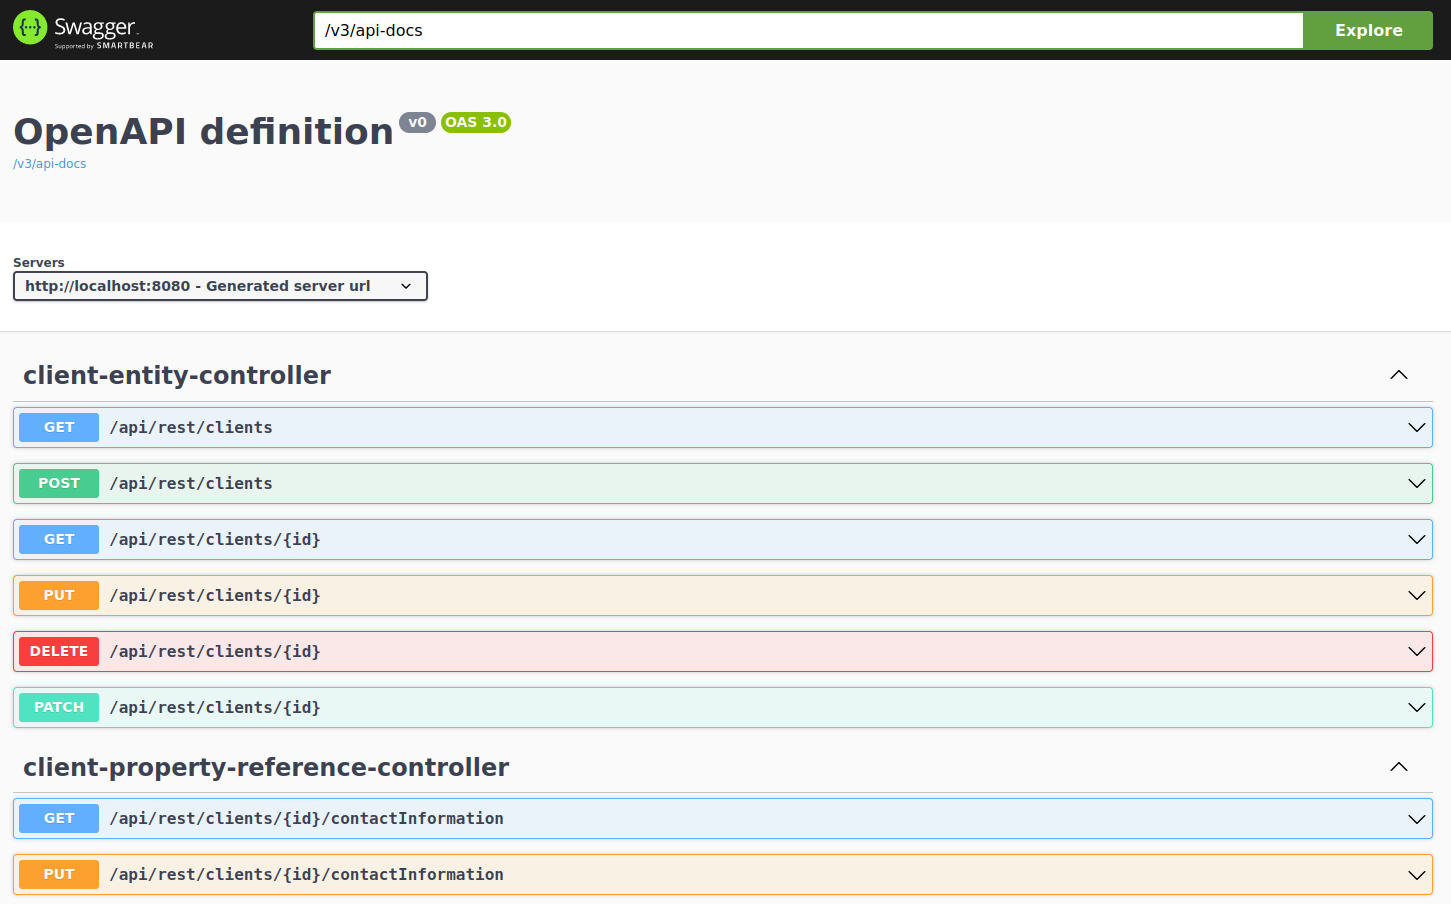
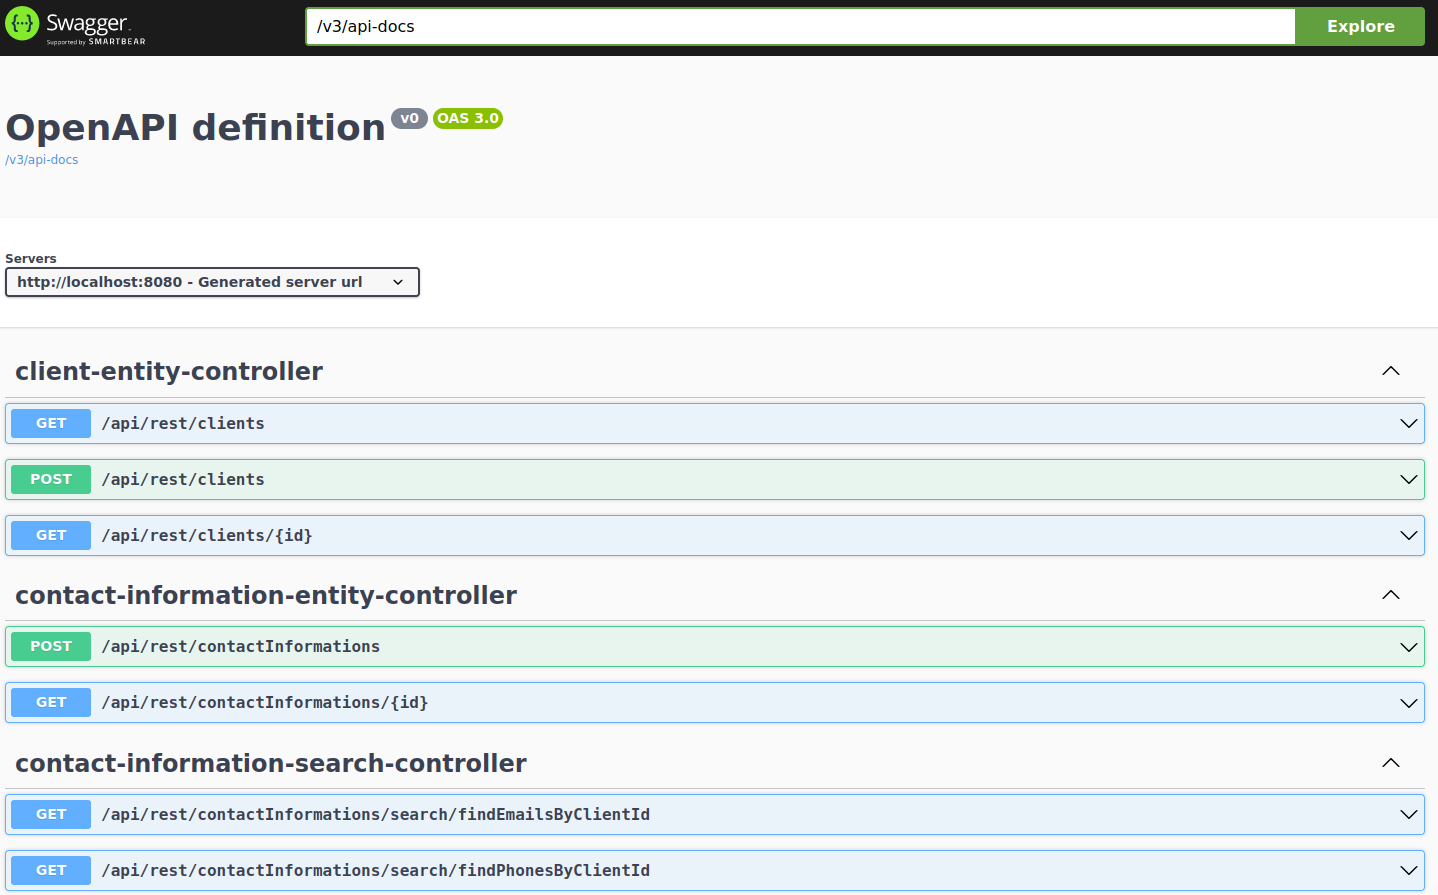
FIX: screenshot in readme file + disable findAll() in ContactInformationRepository

diff --git a/src/main/java/ru/unibell/vladimirvlasenkoskilltest/repository/ContactInformationRepository.java b/src/main/java/ru/unibell/vladimirvlasenkoskilltest/repository/ContactInformationRepository.java
@@ -1,7 +1,13 @@
 package ru.unibell.vladimirvlasenkoskilltest.repository;
 
+import org.springframework.data.domain.Example;
+import org.springframework.data.domain.Page;
+import org.springframework.data.domain.Pageable;
+import org.springframework.data.domain.Sort;
+import org.springframework.data.rest.core.annotation.RestResource;
 import ru.unibell.vladimirvlasenkoskilltest.model.ContactInformation;
 
+import java.util.List;
 import java.util.Set;
 
 /**
@@ -13,4 +19,32 @@ public interface ContactInformationRepository extends GenericRepository<ContactI
     Set<String> findEmailsByClientId(Long id);
 
     Set<String> findPhonesByClientId(Long id);
+
+    @Override
+    @RestResource(exported = false)
+    List<ContactInformation> findAll();
+
+    @Override
+    @RestResource(exported = false)
+    List<ContactInformation> findAllById(Iterable<Long> longs);
+
+    @Override
+    @RestResource(exported = false)
+    <S extends ContactInformation> List<S> findAll(Example<S> example);
+
+    @Override
+    @RestResource(exported = false)
+    <S extends ContactInformation> List<S> findAll(Example<S> example, Sort sort);
+
+    @Override
+    @RestResource(exported = false)
+    List<ContactInformation> findAll(Sort sort);
+
+    @Override
+    @RestResource(exported = false)
+    Page<ContactInformation> findAll(Pageable pageable);
+
+    @Override
+    @RestResource(exported = false)
+    <S extends ContactInformation> Page<S> findAll(Example<S> example, Pageable pageable);
 }

diff --git a/readme.md b/readme.md
@@ -1,3 +1,3 @@
-Swagger docs at http://localhost:8080/swagger-ui/index.html#/ after run application
+Swagger at http://localhost:8080/swagger-ui/index.html#/ after run application
 
-![img_1.png](img_1.png)
+![img.png](img.png)
